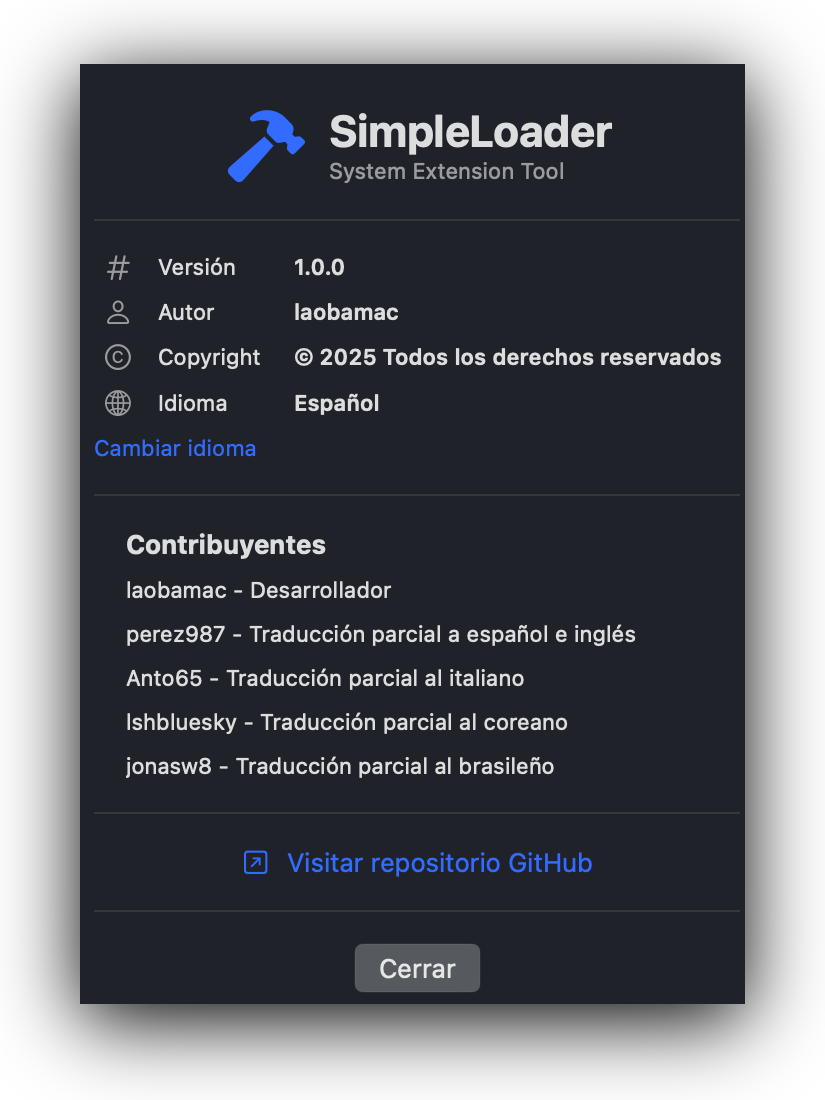
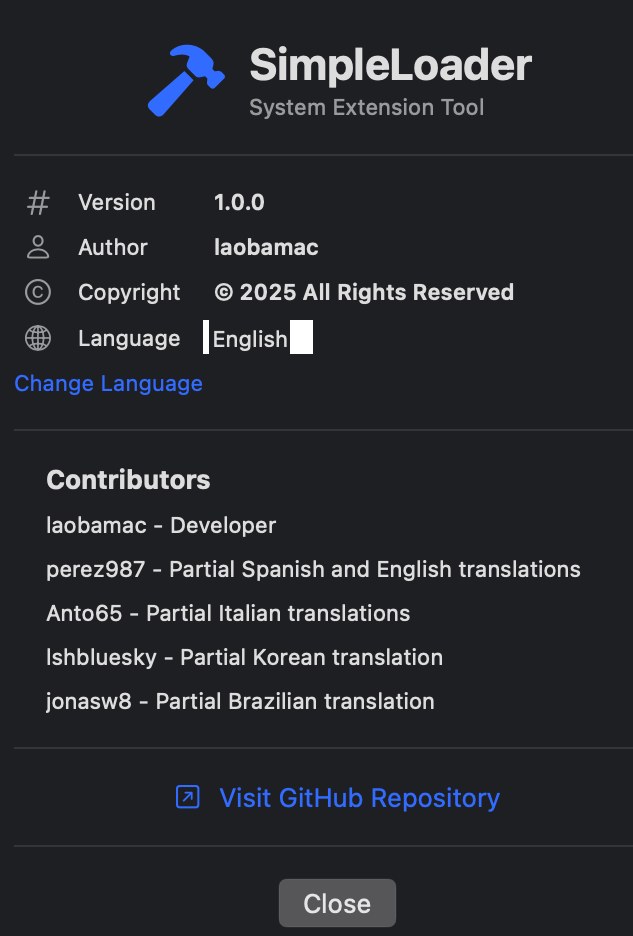
Update README and images for KDK and UI changes

diff --git a/README.md b/README.md
@@ -25,7 +25,7 @@ Disadvantages:
 
 ### Reinstall AppleHDA.kext: MyKextInstaller and SimpleLoader
 
-Developers are already looking for a way to reinstall AppleHDA.kext, extracted from Tahoe Beta 1. It's not a simple task since this kext must be located in /System/Library/Extensions, which by design is a non-writable folder.
+Developers are already looking for a way to reinstall AppleHDA.kext, extracted from Tahoe Beta 1 or Sequoia installation. It's not a simple task since this kext must be located in /System/Library/Extensions, which by design is a non-writable folder.
 
 OCLP team is working on a patch that will be applied similarly to current root patches. Still in an early stage, it's not yet viable for end users.
 
@@ -42,69 +42,37 @@ I've tested them and they seem to work fine for installing AppleHDA.kext and for
 
 ### Requirements for MyKextInstaller and SimpleLoader
 
-- Tahoe beta 1 Kernel Debug Kit ([KDK 26.0 build 25A5279m](https://github.com/dortania/KdkSupportPkg/releases)). You must download and install it yourself before using SimpleLoader, MyKextInstaller downloads and installs it for you. Updating Tahoe partially breaks KDK installation, and you will need to reinstall it<br>**Note**: Apple has released newer KDK ([26.0 build 25A5349a](https://github.com/dortania/KdkSupportPkg/releases) at the time of writing). 
+- Tahoe Kernel Debug Kit. If the same macOS version exists (e.g., `Kernel Debug Kit 26.2 build 25C56` for `macOS Tahoe 26.2 build 25C56`), that's the one to use. If it doesn't exist because Apple hasn't released it yet, use the closest previous version. MyKextInstaller downloads and installs it for you but SimpleLoader doesn't. My repository's version of SimpleLoader does implement the option to download the correct KDK if it doesn't exist on your system.
+
+<figure>
+  <figcaption></figcaption>
+   <img width="540" alt="No KDK window" src="Img/SimpleLoader-nokdk.png""/>
+</figure>
+
 - AppleALC version 1.9.5 or later in the OpenCore Kexts folder and in config.plist (as usual)
 - config.plist: csr-active-config=03080000 (SIP partially disabled)
 - AppleHDA.kext extracted from the KDK. The default path is
-`/Library/Developer/KDKs/KDK_26.0_25A5279m.kdk/System/Library/Extensions/AppleHDA.kext`
+`/Library/Developer/KDKs/<KDK_version-and-build.kdk>/System/Library/Extensions/AppleHDA.kext`
 
 **Note**: AppleHDA.kext that exists in the macOS 15 Sequoia installation also works.
 
 ### MyKextInstaller
 
-Extremely simple interface, just two buttons:
-
-- Install Kexts: Opens a dialog to search for AppleHDA.kext
-- Restore Snapshot: Revert to the last unmodified system image (last sealed snapshot).
-
-<img width="640" src="Img/MKI.png">
-
-- A dialog warns if KDK is not installed. If KDK is not installed, it is downloaded without user intervention.
-
-<img width="480" src="Img/MKI-downloadKDK.png">
-
-- KDK is copied to its destination folder after being downloaded: 
-
-<img width="480" src="Img/MKI-copyKDK.png">
-
-- Finally, permissions are repaired, extensions cache is rebuilt and a restart is requested:
-
-<img width="480" src="Img/MKI-cache.png">
-
-<img width="480" src="Img/MKI-reboot.png">
-
-- The app is now signed and notarized, so you will no longer see 'Move the application to the trash' message.
-
-If you like simple interfaces without too much options, MyKextInstaller is unbeatable.
+Simple interface. The app is now signed and notarized, so you will no longer see 'Move the application to the trash' message.
 
 ### SimpleLoader
 
 **Main Window**
 
-- Select the KDK you have installed
-- Select the extension to install
+- Select the installed KDK(or download it when asked)
+- Select the kext to install
 - Log messages (operation log)
 - Options
 - Bottom section with buttons that perform some tasks:
-	- merge KDK without installing AppleHDA.kext
-	- rebuild the extension cache
+	- merge installed KDK without installing AppleHDA.kext
+	- rebuild extension cache
 	- install AppleHDA.kext
 	- create a new system snapshot or restore the snapshot prior to installing AppleHDA.kext (this undo AppleHDA.kext installation).
-
-<figure>
-  <figcaption>SimpleLoader main window</figcaption>
-   <img width="640" alt="Main window" src="Img/SimpleLoader-main-window.png""/>
-</figure>
-
-<figure>
-  <figcaption>SimpleLoader Installing kext</figcaption>
-     <img width="640" alt="Installing kext window" src="Img/SimpleLoader-installing.png""/>
-</figure>
-
-<figure>
-  <figcaption>SimpleLoader no KDK warning</figcaption>
-   <img width="440" alt="No KDK warning kext window" src="Img/SimpleLoader-nokdk.png""/>
-</figure>
 
 **About button**
 
@@ -114,8 +82,8 @@ Opens a window with two sections:
 - List of translators.
 
 <figure>
-  <figcaption>SimpleLoader About window</figcaption>
-   <img width="440" alt="About window" src="Img/SimpleLoader-about.png""/>
+  <figcaption></figcaption>
+   <img width="400" alt="About window" src="Img/SimpleLoader-about.png""/>
 </figure>
 
 ### Restart
@@ -135,29 +103,3 @@ No variant specified, falling back to release
 
 **Reminder**: Upgrading or installing macOS Tahoe will lose these changes and you'll need to reinstall AppleHDA.kext again.
 
----
-
-###  NOTE: macOS Tahoe beta 5 and newer
-
-Apple has changed the disk icons on the Desktop. You may like them more or less, but they're different from the ones we've used for years.
-These icons are located in the `/System/Library/Extensions/IOStorageFamily.kext` extension.
-
-<figure>
-  <figcaption>New disk icons</figcaption>
-   <img width="640" alt="Main window" src="Img/New-icons.png""/>
-</figure>
-
-In Tahoe beta 1 Kernel Debug Kit (KDK 26.0 build 25A5279m), used to restore AppleHDA.kext, IOStorageFamily.kext has the old icons. When you install this KDK and AppleHDA.kext, you lose the new icons and revert to the old ones. To maintain the new icons, you must keep the IOStorageFamily.kext from the latest beta versions.
-
-To keep the new icons:
-
-- Save IOStorageFamily.kext from the current macOS (e.g., copy it to the Desktop)\
-`sudo cp -R /System/Library/Extensions/IOStorageFamily.kext Desktop`
-- Install KDK 25A5279m
-- Replace IOStorageFamily.kext del KDK with the one you saved on the Desktop\
-`sudo cp -R Desktop/IOStorageFamily.kext /Library/Developer/KDKs/KDK_26.0_25A5279m.kdk/System/Library/Extensions`
-- Install Apple HDA.kext as explained above.
-
-This means that, if you use MyKextInstaller (which fetches the KDK on its own, installs and merges it), you need to install the KDK and replace IOStorageFamily.kext before using the app so that it detects that the KDK is already installed.
-
-SimpleLoader leaves the KDK installation up to you, so you always need to install the KDK and make the replacement it before launching the app.
